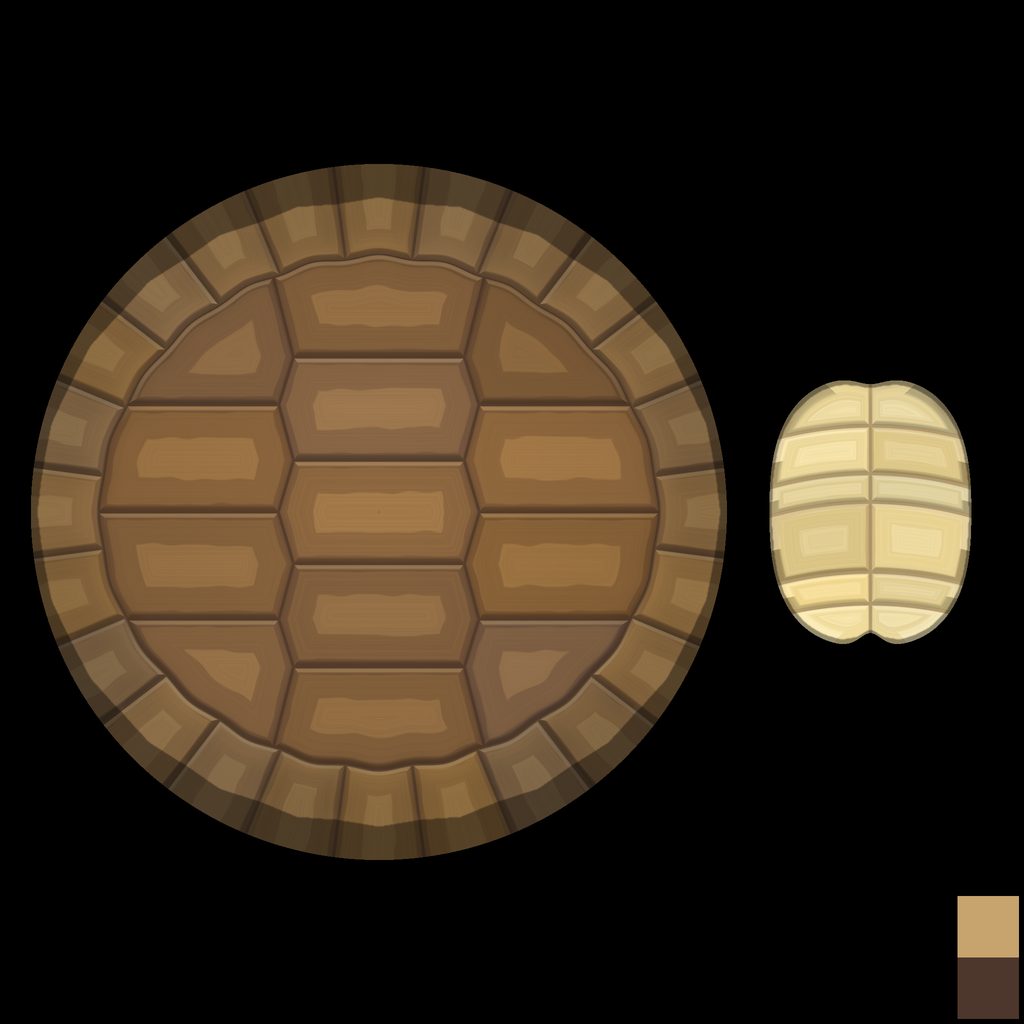
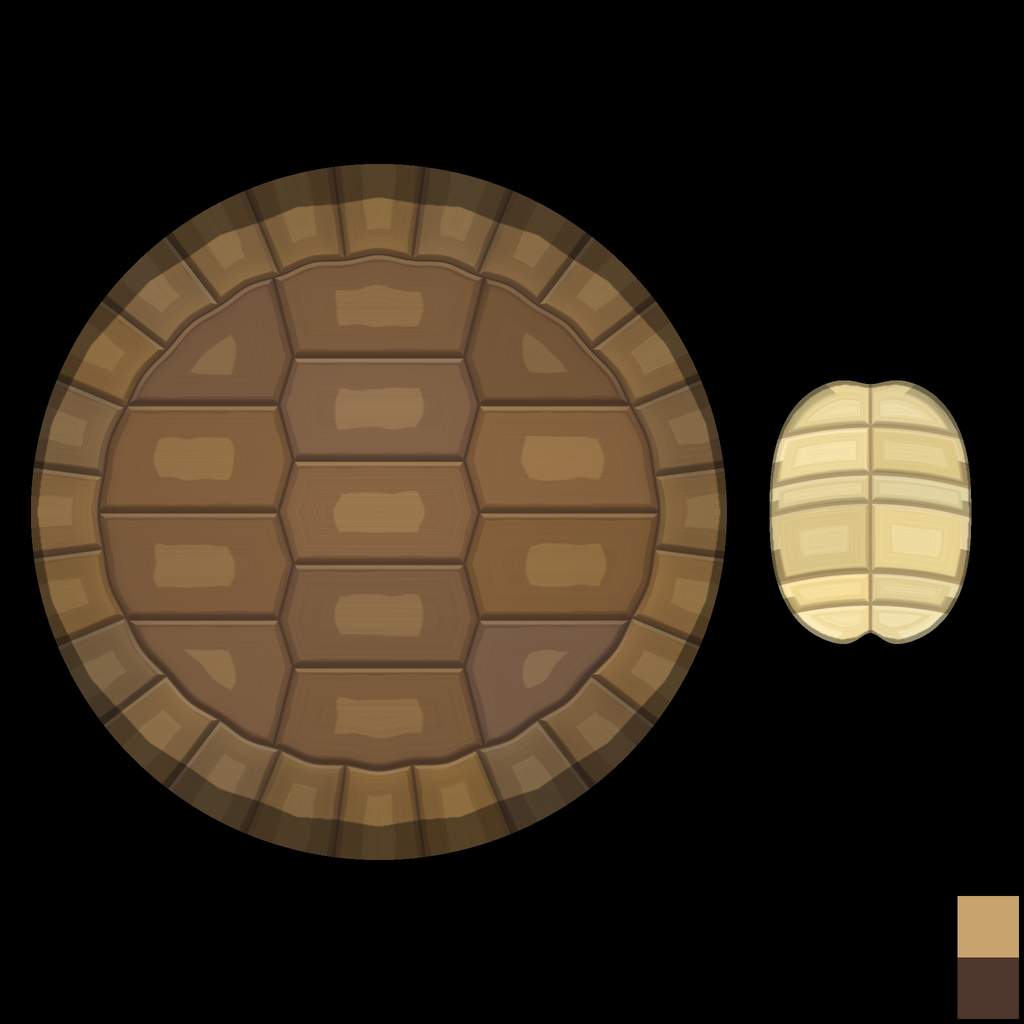
art-rnd-1: shell v3: rounder lit centres, cooler browns; turntable --variants; compare sheet tool
Claude-Session: https://claude.ai/code/session_019Ee5efaMp7ec6dhFqQfV6R

diff --git a/tools/art/pebble_shell/paint.py b/tools/art/pebble_shell/paint.py
@@ -31,7 +31,7 @@ def c(*rgb):
 
 # The palette, after the Golden Skull tiles: warm browns, ochre lights, shade leaning
 # violet, seams nearly black-brown.
-PLATE = dict(lit=c(0.66, 0.5, 0.31), mid=c(0.49, 0.36, 0.23), shade=c(0.34, 0.24, 0.18), seam=c(0.17, 0.11, 0.12), bevel=c(0.8, 0.67, 0.47))
+PLATE = dict(lit=c(0.63, 0.5, 0.33), mid=c(0.47, 0.35, 0.24), shade=c(0.34, 0.24, 0.18), seam=c(0.17, 0.11, 0.12), bevel=c(0.8, 0.67, 0.47))
 MARG = dict(lit=c(0.74, 0.6, 0.39), mid=c(0.6, 0.46, 0.29), shade=c(0.42, 0.3, 0.21), seam=c(0.17, 0.11, 0.12), bevel=c(0.86, 0.75, 0.55))
 PLAS = dict(lit=c(0.96, 0.9, 0.7), mid=c(0.9, 0.82, 0.58), shade=c(0.75, 0.63, 0.43), seam=c(0.5, 0.38, 0.27), bevel=c(1.0, 0.96, 0.82))
 INNER = c(0.3, 0.21, 0.17)
@@ -56,7 +56,7 @@ def value_noise(x, y, seed):
     return (a * (1 - fx) + b * fx) * (1 - fy) + (cc * (1 - fx) + d * fx) * fy
 
 
-def paint_plates(pal, dist, maxd, direc, region, worn, uvx, uvy, rings=(0.3, 0.46, 0.62, 0.78)):
+def paint_plates(pal, dist, maxd, direc, region, worn, uvx, uvy, rings=(0.3, 0.46, 0.62, 0.78), cen=None):
     """Shared plate painting. dist: m to the nearest seam; maxd: that plate's largest
     dist; direc: unit direction towards the seam (y up)."""
     f = dist / np.maximum(maxd, 1e-6)
@@ -65,7 +65,9 @@ def paint_plates(pal, dist, maxd, direc, region, worn, uvx, uvy, rings=(0.3, 0.4
     centre = 0.62
     col = pal["mid"][None] * np.ones_like(dist)[:, None]
     # Three tones with crisp painted edges: shade band at the edge, lit centre.
-    col = col + (pal["lit"] - pal["mid"])[None] * (smooth(centre - 0.02, centre + 0.02, f + wob) * contrast)[:, None]
+    # The lit centre is rounder than the plate: away from the seams and near the middle.
+    litf = f if cen is None else np.minimum(f, 1.15 - cen)
+    col = col + (pal["lit"] - pal["mid"])[None] * (smooth(centre - 0.02, centre + 0.02, litf + wob) * contrast)[:, None]
     col = col + (pal["shade"] - pal["mid"])[None] * ((1 - smooth(0.13, 0.17, f + wob * 0.5)) * contrast)[:, None]
     # Bevel: the upper edge of each plate catches the light, the lower edge falls in shade.
     up = direc[:, 1]
@@ -118,13 +120,13 @@ def main(bake_dir, out_dir):
         for s in range(0, len(th), 20000):
             rho[s:s + 20000] = geom.rho_from_arc(a[idx][s:s + 20000], th[s:s + 20000])
         # Paint a little past the rim, so filtering at the edge stays shell coloured.
-        region, dist, direc, _ = geom.scutes(np.minimum(rho, 1.0), th)
+        region, dist, direc, cen = geom.scutes(np.minimum(rho, 1.0), th)
         maxd = np.zeros(64)
         np.maximum.at(maxd, region, np.where(rho <= 1, dist, 0))
         marg = region >= 13
         col = np.empty((len(th), 3))
         for sel, pal in ((~marg, PLATE), (marg, MARG)):
-            col[sel] = paint_plates(pal, dist[sel], maxd[region[sel]], direc[sel], region[sel], worn, uvx[idx][sel], uvy[idx][sel])
+            col[sel] = paint_plates(pal, dist[sel], maxd[region[sel]], direc[sel], region[sel], worn, uvx[idx][sel], uvy[idx][sel], cen=cen[sel] if pal is PLATE else None)
         # Painted light: the top of the dome a touch warmer and lighter.
         col = col * (1 + 0.07 * (1 - np.minimum(rho, 1) ** 2))[:, None]
         # The AO over everything, then the rim's underside a little darker.

diff --git a/tools/art/compare.py b/tools/art/compare.py
@@ -1,0 +1,36 @@
+"""Stack turntable renders into one labelled comparison sheet (art-rnd-1).
+
+    python3 tools/art/compare.py out.png "label one" a.png "label two" b.png ...
+
+Each render is cropped to its middle band (the figures) and stacked with its label.
+"""
+import sys
+
+from PIL import Image, ImageDraw, ImageFont
+
+out, pairs = sys.argv[1], sys.argv[2:]
+rows = []
+for label, path in zip(pairs[::2], pairs[1::2]):
+    im = Image.open(path).convert("RGB")
+    w, h = im.size
+    rows.append((label, im.crop((0, int(h * 0.22), w, int(h * 0.74)))))
+font = None
+for name in ("DejaVuSans-Bold.ttf", "/usr/share/fonts/truetype/dejavu/DejaVuSans-Bold.ttf"):
+    try:
+        font = ImageFont.truetype(name, 34)
+        break
+    except OSError:
+        pass
+font = font or ImageFont.load_default()
+W = rows[0][1].width
+H = sum(r.height for _, r in rows)
+sheet = Image.new("RGB", (W, H), (30, 30, 30))
+y = 0
+for label, r in rows:
+    sheet.paste(r, (0, y))
+    d = ImageDraw.Draw(sheet)
+    d.rectangle((0, y, d.textlength(label, font=font) + 28, y + 52), fill=(20, 20, 20))
+    d.text((14, y + 8), label, fill=(240, 236, 220), font=font)
+    y += r.height
+sheet.save(out)
+print("saved", out)

diff --git a/client/scripts/models/Showcase.cs b/client/scripts/models/Showcase.cs
@@ -732,9 +732,13 @@ public partial class Showcase : Node3D
         // --built-shell draws Pebble with ChibiFigure's built shell instead of the authored one.
         ChibiShell.Enabled = !args.ContainsKey("built-shell");
         var yaws = new[] { 25f, -35f, -95f, -125f, 145f };
+        // --variants: the same view of five looks instead (Pebble: the three shell
+        // colours with scutes, then two worn smooth).
+        bool variants = args.ContainsKey("variants");
         for (int i = 0; i < yaws.Length; i++)
         {
-            var figure = ChibiFigure.Create(look);
+            var figure = ChibiFigure.Create(variants ? look with { Second = i % 3, Style = i < 3 ? 1 : 0 } : look);
+            if (variants) yaws[i] = -95f;
             figure.Position = new Vector3((i - 2) * 0.95f, 0, 0);
             figure.Rotation = new Vector3(0, Mathf.DegToRad(yaws[i]), 0);
             AddChild(figure);
